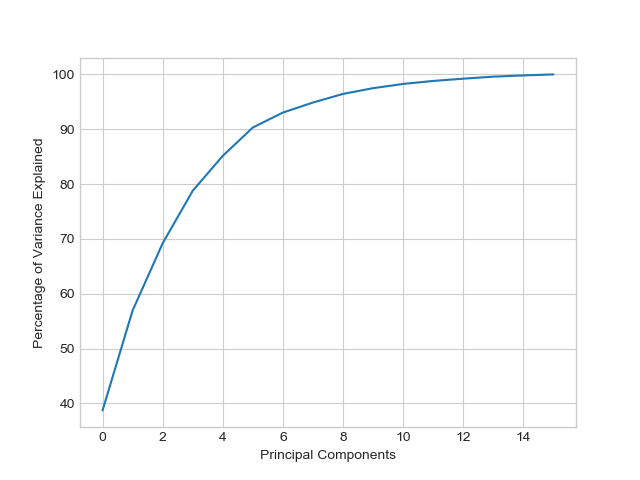
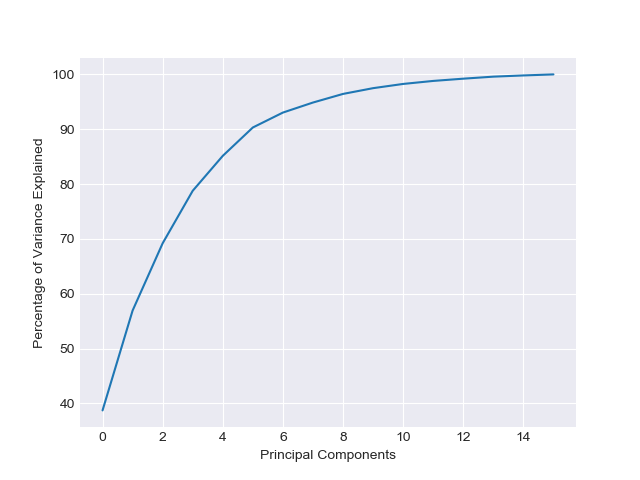
Finished PCA (maybe)

diff --git a/visualize.py b/visualize.py
@@ -4,6 +4,8 @@ import os
 import matplotlib.pyplot as plt
 import sys
 import plotters
+from sklearn.decomposition import PCA
+from tabulate import tabulate
 
 output = 'output/'
 if not os.path.exists(output):
@@ -34,45 +36,54 @@ cols = ['diagnosis', 'concavity_mean', 'concave points_mean', 'concave points_wo
 plotters.pairplots(df, cols, output_dir)
 
 #Explore some bivariate KDE plots for like features
-# plotters.bivariate_kde(df, 'concavity_mean', 'concave points_mean', output + 'kde_density_plots/', save = True)
-
+plotters.bivariate_kde(df, 'concavity_mean', 'concave points_mean', output + 'kde_density_plots/')
 
 #Preliminary PCA
 plotters.cum_variance_explained(x, output + 'PCA/')
 
 #Looking at clustermaps to see what features are highly correlated and can be dropped
 g = sns.clustermap(x.corr())
-plt.setp(g.ax_heatmap.get_yticklabels(), rotation=0)  # For y axis
-plt.setp(g.ax_heatmap.get_xticklabels(), rotation=90) # For x axis
+plt.setp(g.ax_heatmap.get_yticklabels(), rotation = 0)
+plt.setp(g.ax_heatmap.get_xticklabels(), rotation = 90)
 plt.savefig('clustermap_original') #TODO: Figure out how to fix cutoff on this shiznit
 plt.close()
 
 x.drop(['perimeter_mean', 'radius_mean', 'perimeter_worst','radius_worst',
         'area_worst', 'radius_se', 'perimeter_se'], axis = 1, inplace = True)
 g = sns.clustermap(x.corr())
-plt.setp(g.ax_heatmap.get_yticklabels(), rotation=0)  # For y axis
-plt.setp(g.ax_heatmap.get_xticklabels(), rotation=90) # For x axis
+plt.setp(g.ax_heatmap.get_yticklabels(), rotation = 0)
+plt.setp(g.ax_heatmap.get_xticklabels(), rotation = 90)
 plt.savefig('clustermap_drop1') #TODO: Figure out how to fix cutoff on this shiznit
 plt.close()
 
 x.drop(['compactness_se', 'concavity_se', 'concave points_se','symmetry_se',
         'concavity_worst', 'compactness_worst', 'concave points_worst'], axis = 1, inplace = True)
 g = sns.clustermap(x.corr())
-plt.setp(g.ax_heatmap.get_yticklabels(), rotation=0)  # For y axis
-plt.setp(g.ax_heatmap.get_xticklabels(), rotation=90) # For x axis
+plt.setp(g.ax_heatmap.get_yticklabels(), rotation = 0)
+plt.setp(g.ax_heatmap.get_xticklabels(), rotation = 90)
 plt.savefig('clustermap_drop2') #TODO: Figure out how to fix cutoff on this shiznit
 plt.close()
 
-#PCA analysis
+#PCA analysis post basic feature engineering
 plotters.cum_variance_explained(x, output + 'PCA/')
 
-sys.exit()
+pca = PCA(n_components = x.shape[1])
+pca.fit(x)
 x1 = pca.fit_transform(x)
 x1 = pd.DataFrame(x1)
 x1 = pd.concat([labs, x1], axis = 1)
 
 for label, color in zip(('benign', 'malignant'), ('blue','red')):
   plt.scatter(x1[x1['diagnosis'] == label][0], x1[x1['diagnosis'] == label][1], label = label, c = color)
-plt.show()
+plt.savefig(output + 'PCA/' + 'Scatter, 2 components')
+
 df = pd.DataFrame(pca.components_, columns=list(x.columns))
-print(df)
+
+#Code to generate HTML table to put in blog post because Pandas is stupid
+#and can't print tables in a nice way
+header = []
+ncomponents = 4
+for i in range(ncomponents):
+  header.append('PC' + str(i + 1))
+print(tabulate(df.T.iloc[:, 0:ncomponents], headers = header, tablefmt = 'html'))
+

diff --git a/plotters.py b/plotters.py
@@ -10,6 +10,7 @@ import numpy as np
 def cum_variance_explained(df, output_dir, save = True):
   '''Generates the cumulative variance explained plot for PCA based on number of components
   equal to the number of features
+
   Args:
     - df        (DataFrame): The dataframe all data (malignant and benign)
     - output_dir(String)   : The directory to save output to for bivariate_kde plots

diff --git a/README.md b/README.md
@@ -1,2 +1,3 @@
 # Breast-Cancer-Detection
-A small practice in feature engineering and prediction of benign/malignant tumors in breast cancer patients
+A small practice in feature engineering and prediction of benign/malignant breast masses from patients.
+
